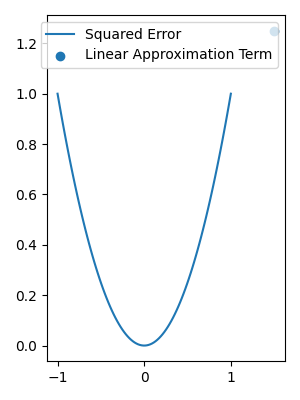
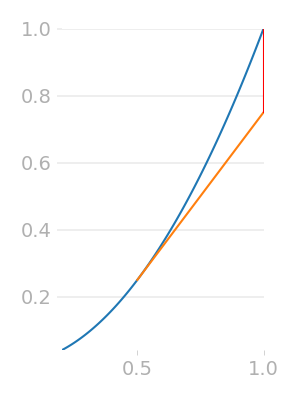
.

diff --git a/illustrations/bregman/bregman-intuition.py b/illustrations/bregman/bregman-intuition.py
@@ -1,3 +1,4 @@
+import matplotx
 import numpy as np
 import matplotlib.pyplot as plt
 
@@ -6,46 +7,106 @@ from illustrations.plot_utils import put_caption
 
 
 # Define the generator function (squared error)
-def squared_error(x):
+def squared_error_gen(x):
     return x**2
 
-def squared_error_grad(x):
+def squared_error_gen_grad(x):
     return 2*x
 
+def ikura_saito_gen(x):
+    return - np.log(x)
 
+def ikura_saito_gen_grad(x):
+    return - 1/x
 
 def linear_approx_point(x):
-    fx = squared_error(x)
-    slope = squared_error_grad(0.5)
+    fx = squared_error_gen(x)
+    slope = squared_error_gen_grad(0.5)
     step = 1
     return fx + slope * step
 
 
-# Define the reference point
-ref_point = 0.5
+def linear_approx(y, x, fn, grad):
+    return fn(x) + (y - x) * grad(x)
 
-# Define the range of x values to plot
-xs = np.linspace(-1, 1, 100)
+def linear_approx_sqerr(y, ref):
+    return linear_approx(y, ref, squared_error_gen, squared_error_gen_grad)
+
+def plot_linear_approx_line(maxy, ref, gen, gen_grad):
+    p2 = (maxy, linear_approx(maxy, ref, gen, gen_grad))
+    p1 = (ref, squared_error_gen(ref))
+    plt.plot([p1[0], p2[0]], [p1[1], p2[1]])
+
+    plt.plot([p2[0], maxy], [p2[1], squared_error_gen(maxy)], color="red")
+    # plt.text(p2[0] + 0.05, p2[1] + 0.1, "Divergence", color="red")
+
+
+plt.style.use(matplotx.styles.dufte)
 
 plt.figure(figsize=(3, 4))
-
-# Plot the results
-plt.plot(xs, squared_error(xs), label='Squared Error')
-
-linear_approximation = [linear_approx_point(x) for x in xs]
-
-plt.scatter(0.5 + 1, linear_approx_point(0.5), label='Linear Approximation Term')
-# plt.plot(xs, linear_approximation, label='Linear Approximation')
-# plt.plot(xs, bregman_divergences, label='Bregman Divergence')
-plt.legend()
+xs = np.linspace(0.2, 1, 100)
+plt.plot(xs, squared_error_gen(xs), label='Squared Error')
+plot_linear_approx_line(1, 0.5, squared_error_gen, squared_error_gen_grad)
 plt.tight_layout()
-
 plot_id = "bregman-intuition-1d"
-
 plt.savefig(cwd_path(f"{plot_id}.png"))
-
 caption = """
     $1$-dimensional illustration of the Bregman divergence with with $\phi(x) = x^2$, yielding the squared error.
     """
 put_caption(caption,
          cwd_path(f"{plot_id}.tex"))
+plt.show()
+plt.close()
+
+plt.figure(figsize=(3, 4))
+xs = np.linspace(0.01, 2, 100)
+plt.plot(xs, ikura_saito_gen(xs), label="Ikura-Saito")
+plot_linear_approx_line(0.5, 0.1, ikura_saito_gen, ikura_saito_gen_grad)
+plt.tight_layout()
+plot_id = "bregman-intuition-1d-ikura-saito"
+plt.savefig(cwd_path(f"{plot_id}.png"))
+caption = """
+    $1$-dimensional illustration of the Bregman divergence with with $\phi(x) = - \log x$, yielding the Ikura-Saito distance.
+    """
+put_caption(caption,
+            cwd_path(f"{plot_id}.tex"))
+plt.show()
+plt.close()
+
+
+
+# # Define the reference point
+# ref = 0.5
+#
+# p1 = (ref, )
+#
+# # Define the range of x values to plot
+# xs = np.linspace(-1, 1, 100)
+#
+# plt.figure(figsize=(3, 4))
+#
+# # Plot the results
+# plt.plot(xs, squared_error(xs), label='Squared Error')
+#
+# linear_approximation = [linear_approx_point(x) for x in xs]
+#
+# plt.scatter(0.5 + 1, linear_approx_point(0.5), label='Linear Approximation Term')
+#
+# plt.plot([0.5, 1.5], [0.5, linear_approx_point(0.5)])
+
+# plt.plot(xs, linear_approximation, label='Linear Approximation')
+# plt.plot(xs, bregman_divergences, label='Bregman Divergence')
+# plt.legend()
+# plt.tight_layout()
+#
+# plot_id = "bregman-intuition-1d"
+#
+# plt.show()
+#
+# plt.savefig(cwd_path(f"{plot_id}.png"))
+#
+# caption = """
+#     $1$-dimensional illustration of the Bregman divergence with with $\phi(x) = x^2$, yielding the squared error.
+#     """
+# put_caption(caption,
+#          cwd_path(f"{plot_id}.tex"))

diff --git a/dvc-experiments/run_bvd.py b/dvc-experiments/run_bvd.py
@@ -8,17 +8,13 @@ from decompose.data_utils import load_standard_dataset
 from decompose.dvc_utils import get_model
 
 warnings.simplefilter(action='ignore', category=FutureWarning)
-
 warnings.filterwarnings(action='ignore', category=DataConversionWarning)
-# TODO fix "Datatype of x is not int, this may give unexpected behaviour"
-# e.g. when training stqandard-rf-classifier
-
-"""
-    Run a BVD experiment as parameterised by DVC. 
-"""
 
 
 def main():
+    """
+        Run a BVD experiment as parameterised by DVC.
+    """
     args = dvc_utils.parse_args()
     model_id = args.model
     dataset_id = args.dataset

diff --git a/decompose/classifiers.py b/decompose/classifiers.py
@@ -26,6 +26,7 @@ def make_geometric_nn_ensemble(base):
         base_estimator=base,
         warm_start=True,
         smoothing_factor=1e-9
+        # TODO n_estimators is still fixed
     )
 
 class MLP(BaseEstimator, ClassifierMixin):
@@ -53,8 +54,7 @@ class MLP(BaseEstimator, ClassifierMixin):
             module=module,
             max_epochs=10,
             lr=0.1,
-            criterion=MyError(),
-            iterator_train__shuffle=True,
+            criterion=nn.CrossEntropyLoss(),
             verbose=False
         )
 

diff --git a/dvc-experiments/get_staged_decomp_values.py b/dvc-experiments/get_staged_decomp_values.py
@@ -10,8 +10,8 @@ from decompose.utils import all_getters
 
 
 def staged(getter):
-    M = 150  # TODO move to params
-    ms = range(1, M, 5) # TODO move step to params
+    M = 20  # TODO move to params
+    ms = range(1, M) # TODO move step to params
     values = np.vectorize(getter)(ms)
     return np.column_stack((ms, values))
 

diff --git a/illustrations/bregman/bregman-intuition-1d-ikura-saito.tex b/illustrations/bregman/bregman-intuition-1d-ikura-saito.tex
@@ -1,0 +1,3 @@
+\caption{
+    $1$-dimensional illustration of the Bregman divergence with with $\phi(x) = - \log x$, yielding the Ikura-Saito distance.
+    }
